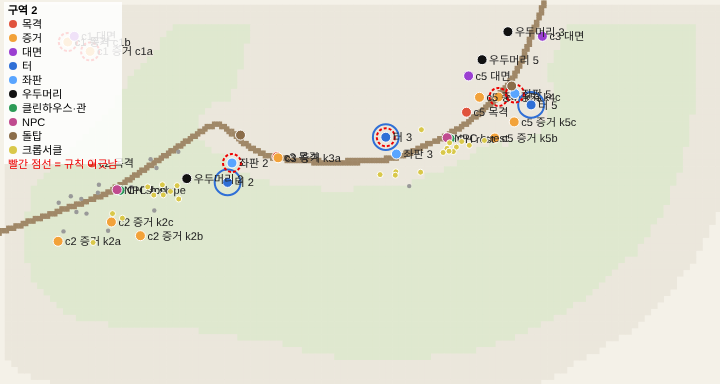
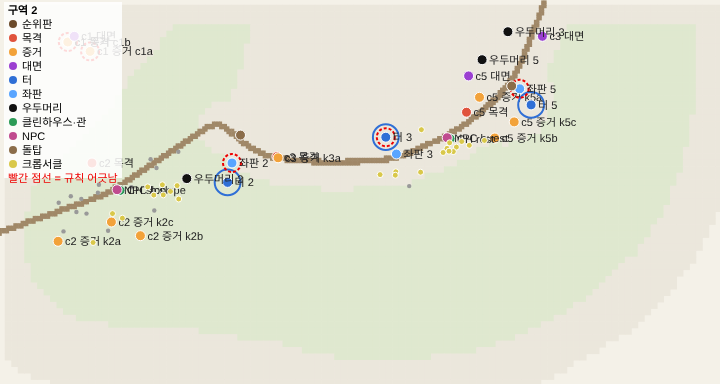
#308 정상 물건 흩어 놓기·금고(관리 초소) 굼부리 가는 길 끝으로
- 금고 초소: MYST.safe path·d·side·off (toCrater 190m 왼쪽 6.5m 길가, 문은 길을 봄), 초소 일지 k4c 도 곁으로 (z 1)
- 정상 하르방 → 능선 길목(올라오는 쪽 22m), 망원경 표지석에서 4.3m, 터 5 좌판 문 반대쪽 옆
- 금고 쪽지 n404 z 'hut' (굼부리 초소)
- tools/summitmap.js: 표지석 둘레 표·겹침·그림 (notes/shots/308)
- tools/summit.js: 낡은 검사 고침 (Lv 1 순간이동 → 권장 레벨 경고가 장면을 막음, 느린 GL 에서 6초는 짧음)

Claude-Session: https://claude.ai/code/session_01Hf36mauygstBS3Qxx7WYjF

Changed region(s): [[0.0, 0.0312, 0.1833, 0.4688], [0.6722, 0.1875, 0.7944, 0.2812]]

diff --git a/tools/summitmap.js b/tools/summitmap.js
@@ -1,0 +1,70 @@
+// 정상 물건 자리 (#308): node build.mjs && node tools/summitmap.js [출력=notes/shots/308] [이름표=after] [R=30]
+// - 표지석 둘레 R m 안의 상호작용 자리(이름·표지석 기준 out/tan m)를 적고, 서로 너무 가까운 쌍(폰에서 누르는 범위 겹침)을 FAIL 로 알림
+// - 금고(관리 초소)가 정상(표지석 SUMMIT_R m 안)에 없는지
+// - 그림: 정상을 위에서 본 것(top), 걸어 올라와서 앞(walk)·뒤(back), 관리 초소(hut)·능선 길목 하르방(hare) → <출력>/<이름표>-*.jpg
+const { chromium } = require('playwright');
+const fs = require('fs'), path = require('path');
+const OUT = process.argv[2] || 'notes/shots/308', TAG = process.argv[3] || 'after', R = +(process.argv[4] || 30);
+const SUMMIT_R = 16;
+fs.mkdirSync(OUT, { recursive: true });
+let fails = 0; const ok = (c, m) => { console.log((c ? 'ok   ' : 'FAIL ') + m); if (!c) fails++; };
+(async () => {
+  const b = await chromium.launch({ args: ['--use-gl=angle', '--use-angle=swiftshader', '--enable-unsafe-swiftshader'] });
+  const p = await b.newPage({ viewport: { width: 720, height: 540 } }); let errs = 0;
+  p.on('pageerror', (e) => { errs++; console.log('ERR', e.message.slice(0, 300)); });
+  const W = (ms) => p.waitForTimeout(ms), E = (f, a) => p.evaluate(f, a);
+  await p.goto('file://' + process.cwd() + '/dist/test.html?aa=1#namsongi'); await W(6000);
+  await p.click('#enter').catch(() => {}); await W(4000);
+  if (await E(() => !document.getElementById('look')?.hidden).catch(() => false)) { await p.click('#look-ok').catch(() => {}); await W(1000); }
+  await E(() => { const o = window.__oreum; o.tut?.skipAll?.(); o.setTod?.(14); o.setWeather?.('clear'); o.pace?.test?.hold?.(); });
+  await W(2500);
+  const inv = await E((R) => {
+    const o = window.__oreum, S = o.spots.photo.stone, out = o.spots.photo.out, tan = { x: -out.z, z: out.x };
+    const rel = (q) => ({ o: +((q.x - S.x) * out.x + (q.z - S.z) * out.z).toFixed(1), t: +((q.x - S.x) * tan.x + (q.z - S.z) * tan.z).toFixed(1), d: +Math.hypot(q.x - S.x, q.z - S.z).toFixed(1) });
+    const items = [];
+    for (const it of o.interactables || []) { const q = it.pos; if (!q || !isFinite(q.x)) continue; const r = rel(q); if (r.d < R) items.push({ k: 'act', name: (typeof it.label === 'function' ? it.label() : it.label) || it.ic || '?', r: it.r || 0, x: q.x, z: q.z, ...r }); }
+    for (const c of o.cairns || []) { const q = c.pos; if (q) { const r = rel(q); if (r.d < R) items.push({ k: 'cairn', name: c.name || c.id, r: 2.4, x: q.x, z: q.z, ...r }); } }
+    for (const h of o.spots.hareubangs || []) { const r = rel(h.pos); if (r.d < R) items.push({ k: 'hareubang', name: '하르방', r: 1.2, x: h.pos.x, z: h.pos.z, ...r }); }
+    const sp = o.summit?.spots?.(); if (sp?.scope) { const q = { x: sp.scope[0], z: sp.scope[2] }; items.push({ k: 'scope', name: '망원경', r: 0, x: q.x, z: q.z, ...rel(q) }); }
+    if (sp?.note) { const q = { x: sp.note[0], z: sp.note[2] }; items.push({ k: 'note', name: '쪽지', r: 0, x: q.x, z: q.z, ...rel(q) }); }
+    const safe = o.myst?.state?.().hut; if (safe) items.push({ k: 'safe', name: '금고(관리 초소)', r: 0, x: safe.x, z: safe.z, ...rel(safe) });
+    return { stone: [S.x, S.z], items: items.sort((a, b) => a.d - b.d) };
+  }, R);
+  console.log('표지석', inv.stone.map((v) => v.toFixed(1)).join(','));
+  console.log('종류       이름                       out    tan    거리  누르는 범위');
+  for (const it of inv.items) console.log(`${it.k.padEnd(10)} ${String(it.name).slice(0, 22).padEnd(24)} ${String(it.o).padStart(6)} ${String(it.t).padStart(6)} ${String(it.d).padStart(6)}  ${it.r}`);
+  /* 누르는 범위 겹침: 상호작용 둘이 서로 (작은 쪽 범위)보다 가깝거나 1.5 m 안이면 */
+  const acts = inv.items.filter((i) => i.r > 0);
+  const seen = new Set();
+  for (let i = 0; i < acts.length; i++) for (let j = i + 1; j < acts.length; j++) {
+    const a = acts[i], c = acts[j]; if (a.name === c.name) continue;
+    const key = [a.name, c.name].sort().join('|'); if (seen.has(key)) continue; seen.add(key);
+    const d = Math.hypot(a.x - c.x, a.z - c.z), need = Math.max(3, Math.min(a.r, c.r));
+    if (d < 0.1 && (a.k === 'cairn' || c.k === 'cairn')) continue; /* 돌탑 상호작용과 돌탑 자체 */
+    if (a.d < SUMMIT_R + 4 && c.d < SUMMIT_R + 4) ok(d >= need, `${a.name} ↔ ${c.name} ${d.toFixed(1)} m (≥ ${need})`);
+  }
+  const safe = inv.items.find((i) => i.k === 'safe');
+  const safeAll = await E(() => { const o = window.__oreum, s = o.myst?.state?.().hut, S = o.spots.photo.stone; return s ? Math.hypot(s.x - S.x, s.z - S.z) : null; });
+  ok(safeAll == null || safeAll > SUMMIT_R, `금고는 정상(표지석 ${SUMMIT_R} m) 밖 (${safeAll == null ? '없음' : safeAll.toFixed(1) + ' m'})`);
+  void safe;
+  /* 그림 */
+  await E(() => { let st = document.getElementById('__ms'); if (!st) { st = document.createElement('style'); st.id = '__ms'; document.head.append(st); } st.textContent = 'body > *:not(#view){visibility:hidden!important} #view{visibility:visible!important}'; });
+  const camAt = (x, y, z, tx, ty, tz) => E(([x, y, z, tx, ty, tz]) => { const o = window.__oreum; o.cam.mode = 'free'; o.camObj.position.set(x, y, z); o.camObj.lookAt(tx, ty, tz); }, [x, y, z, tx, ty, tz]);
+  const g = await E(() => { const o = window.__oreum, S = o.spots.photo.stone, out = o.spots.photo.out; return { x: S.x, z: S.z, y: o.groundAt(S.x, S.z), ox: out.x, oz: out.z }; });
+  await E(([x, z]) => { const o = window.__oreum; o.player.pos.set(x, o.groundAt(x, z), z); o.player.target = null; o.snap?.(); }, [g.x - g.ox * 3, g.z - g.oz * 3]);
+  await W(1500);
+  const sh = async (n) => { await p.screenshot({ path: path.join(OUT, `${TAG}-${n}.jpg`), type: 'jpeg', quality: 60, timeout: 150000 }); console.log('그림', path.join(OUT, `${TAG}-${n}.jpg`)); };
+  await camAt(g.x + g.ox * 2, g.y + 42, g.z + g.oz * 2 + 0.01, g.x - g.ox * 1, g.y, g.z - g.oz * 1); await W(2500); await sh('top');
+  /* 걸어 올라오는 쪽(바깥 out 쪽 아래)에서 표지석과 굼부리 쪽을 봄 */
+  await camAt(g.x + g.ox * 16, g.y + 4, g.z + g.oz * 16, g.x - g.ox * 6, g.y + 0.5, g.z - g.oz * 6); await W(2500); await sh('walk');
+  await camAt(g.x - g.ox * 14, g.y + 5, g.z - g.oz * 14, g.x + g.ox * 2, g.y + 0.5, g.z + g.oz * 2); await W(2500); await sh('back');
+  /* 옮긴 것: 관리 초소(금고)·능선 길목 하르방 */
+  const hut = await E(() => window.__oreum.myst?.state?.().hut);
+  if (hut) { const y = await E(([x, z]) => window.__oreum.groundAt(x, z), [hut.x, hut.z]); await camAt(hut.x + hut.fx * 9 + hut.fz * 4, y + 3.5, hut.z + hut.fz * 9 - hut.fx * 4, hut.x, y + 1, hut.z); await W(2500); await sh('hut'); }
+  const hb = await E(() => { const o = window.__oreum, S = o.spots.photo.stone; const h = o.life.hareubangs.map((q) => q.pos).sort((a, c) => Math.hypot(a.x - S.x, a.z - S.z) - Math.hypot(c.x - S.x, c.z - S.z))[0]; return h && { x: h.x, z: h.z, y: o.groundAt(h.x, h.z), sx: S.x, sz: S.z }; });
+  if (hb) { await camAt(hb.x + (hb.x - hb.sx) * 0.5, hb.y + 4, hb.z + (hb.z - hb.sz) * 0.5, hb.sx, hb.y, hb.sz); await W(2500); await sh('hare'); }
+  ok(!errs, '페이지 오류 없음');
+  await b.close();
+  console.log(fails ? `FAIL ${fails}` : '모두 통과');
+  process.exit(fails ? 1 : 0);
+})();

diff --git a/src/game/mystery.js b/src/game/mystery.js
@@ -2,7 +2,7 @@
 // - 4:04 가 나오는 곳(설명 없이): 오름 방송(관리 안내, punkworld pickLine), 쪽지(영수증·동굴 수거 일정표·금고 인수인계서), 가게 거리 멈춘 시계,
 //   가로등 번호판 '404', 마차 정류장 시간표 한 줄, 그리고 실제 시각 04:04 (그 1분 동안 가까운 더미에서 먼지가 일고, 단계 humStage 부터 먼 웅웅)
 //   본 곳을 save.myst.seen 에 모음. MYST.num.say 곳 이상 보면 혼잣말 '또 4시 4분이네.' 한 번(감독 #176 을 거침). 답을 알려 주는 UI·퀘스트 표시는 없음
-// - 금고: 굼부리 관리 초소(표지석 곁 작은 초소) 안 4자리 다이얼. 답 MYST.safe.code. 틀리면 '딸깍… 아니다.' 만(벌·힌트 없음)
+// - 금고: 굼부리 관리 초소(굼부리 가는 길 끝 길가의 작은 초소, #308 에서 정상에서 옮김) 안 4자리 다이얼. 답 MYST.safe.code. 틀리면 '딸깍… 아니다.' 만(벌·힌트 없음)
 //   열면 귤 MYST.safe.gyul(서버 earn.js 가 save.myst.safe 로 계정마다 한 번 인정, #188) + 전리품 하나(dropLoot 'treasure') + 쪽지 n404 + 칭호 '눈썰미'
 // - 내 화면에만 (멀티로 보내지 않음). 저장 save.myst = { seen: [곳], said, safe, rad: [들은 관리 안내 번호(punkworld)], tr: {흔적, traces.js}, crop }
 // 파일 순서는 summit 뒤 (src/modules.js: 표지석 자리·쪽지·칭호가 다 있음). dev: __oreum.myst
@@ -17,7 +17,7 @@ import { revealStage } from '../ufoveil.js';
 import { state, late } from './state.js';
 import { $, save, persist, MAP_ID } from './save.js';
 import { scene, spots } from './scene.js';
-import { P as PH, summitOut, summitTan, player, trash, col, street } from './place.js';
+import { P as PH, player, trash, col, street } from './place.js';
 import { ach, addCoins, PANELS, panelOpen, openDex } from './hud.js';
 import { interactables } from './stores.js';
 import { dropLoot } from './loot.js';
@@ -100,9 +100,12 @@ if (NS && CART?.stops?.[N.stop]) {
 }
 
 /* ---------- 금고: 굼부리 관리 초소 ---------- */
+/* #308: 정상에서 빼서 굼부리 가는 길(toCrater) 끝, 굼부리 둘레 앞 길가로. 문은 길을 봄 */
 const SAFE_ON = NS && !!PH?.stone;
-const hutPos = SAFE_ON ? PH.stone.clone().addScaledVector(summitOut, SF.out).addScaledVector(summitTan, SF.tan) : new THREE.Vector3(1e9, 0, 1e9);
+const hutQ = SAFE_ON ? nsAlong(SF.path, SF.d, SF.side, SF.off) : null, hutLook = SAFE_ON ? nsAlong(SF.path, SF.d, 0, 0) : null;
+const hutPos = SAFE_ON ? new THREE.Vector3(hutQ.x, 0, hutQ.z) : new THREE.Vector3(1e9, 0, 1e9);
 hutPos.y = height(hutPos.x, hutPos.z);
+const hutFace = SAFE_ON ? new THREE.Vector3(hutLook.x - hutPos.x, 0, hutLook.z - hutPos.z).normalize() : new THREE.Vector3(0, 0, 1);
 let door = null;
 if (SAFE_ON) {
   const g = new THREE.Group(), wall = tm('#b9b2a0'), roof = tm('#56605a'), dark = tm('#2d302e'), steel = tm('#6d7370');
@@ -115,11 +118,11 @@ if (SAFE_ON) {
   const dp = new THREE.Mesh(new THREE.BoxGeometry(0.66, 0.7, 0.05), tm('#7d8380')); dp.position.x = 0.35; door.add(dp);
   const dial = new THREE.Mesh(new THREE.CylinderGeometry(0.1, 0.1, 0.05, 12), dark); dial.rotation.x = Math.PI / 2; dial.position.set(0.35, 0.05, 0.04); door.add(dial);
   const sign = plate([T.hut], { w: 1.4, h: 0.26, bg: '#eae3cc', px: 40 }); sign.position.set(0, 1.85, 0.92); g.add(sign);
-  g.position.copy(hutPos); g.rotation.y = Math.atan2(PH.stone.x - hutPos.x, PH.stone.z - hutPos.z); G.add(g);
+  g.position.copy(hutPos); g.rotation.y = Math.atan2(hutFace.x, hutFace.z); G.add(g);
   col?.add(hutPos.x, hutPos.z, 1.3);
   if (mystSave().safe) door.rotation.y = -1.9;
 }
-const safeAt = SAFE_ON ? hutPos.clone().add(new THREE.Vector3(PH.stone.x - hutPos.x, 0, PH.stone.z - hutPos.z).setLength(1.7)) : hutPos;
+const safeAt = SAFE_ON ? hutPos.clone().addScaledVector(hutFace, 1.7) : hutPos;
 
 // 다이얼 창
 const CSS = `
@@ -238,7 +241,7 @@ late.tickMyst = (dt) => {
 };
 
 late.mystApi = {
-  state: () => { const m = mystSave(); return { seen: [...m.seen], said: m.said, safe: m.safe, now404: isNow(), hut: SAFE_ON && { x: +hutPos.x.toFixed(1), z: +hutPos.z.toFixed(1) }, on: !!state.sessionOn, near: spotsSeen.map((x) => +Math.hypot(x.x - player.pos.x, x.z - player.pos.z).toFixed(1)), spots: spotsSeen.map((s) => s.id), notes: NOTE404 }; },
+  state: () => { const m = mystSave(); return { seen: [...m.seen], said: m.said, safe: m.safe, now404: isNow(), hut: SAFE_ON && { x: +hutPos.x.toFixed(1), z: +hutPos.z.toFixed(1), fx: +hutFace.x.toFixed(2), fz: +hutFace.z.toFixed(2) }, on: !!state.sessionOn, near: spotsSeen.map((x) => +Math.hypot(x.x - player.pos.x, x.z - player.pos.z).toFixed(1)), spots: spotsSeen.map((s) => s.id), notes: NOTE404 }; },
   seen: (id) => { const r = seen(id); trySay(); return r; },
   go: (id = 'safe') => { const s = id === 'safe' ? safeAt : spotsSeen.find((x) => x.id === id); if (!s) return null; const x = s.x + 1.2, z = s.z + 1.2; player.pos.set(x, height(x, z), z); player.visY = player.pos.y; return { x, z }; },
   open: openSafe, close: closeSafe, code: (c) => tryCode(String(c)), shown: () => !win.hidden,

diff --git a/src/balance.js b/src/balance.js
@@ -1410,7 +1410,7 @@ export const CLUE = {
   turn: [1.5, 6.5], flash: { at: 6.8, dur: 0.6, size: 26 }, up: 30, fov: 32,
   note: { out: -1.5, tan: 0.5, r: 2.6 },
   rim: { in: 4, r: 9 },
-  scope: { out: 0.7, tan: -2.8, r: 2.4, len: 9, fov: 14, sweep: 0.55, far: 1400, light: { stage: 0, night: -4 } },
+  scope: { out: 0.8, tan: -4.2, r: 2.4, len: 9, fov: 14, sweep: 0.55, far: 1400, light: { stage: 0, night: -4 } },
 };
 
 // 미스터리 장치 (#212, game/mystery.js·game/traces.js). 단계는 UFO.reveal 의 드러남 단계(#207). 값은 임의
@@ -1418,8 +1418,9 @@ export const MYST = {
   // 1. 되풀이되는 숫자 4:04. 본 곳(방송·쪽지·시계·가로등·시간표·그 시각)이 say 곳 이상이면 혼잣말 한 번. near: 시계·번호판·시간표에 이 m 안이면 본 것
   //   시계: 가게 거리 골목 좌표 clock [s, 쪽] · 번호판: 가로등 lamp 번째 · 시간표: 마차 정류장 stop 번째. 그 시각 1분 동안 dustR m 안 더미에서 dustEvery 초마다 먼지, 단계 humStage 부터 먼 웅웅
   num: { h: 4, m: 4, say: 4, near: 6, dustR: 70, dustEvery: [4, 7], humStage: 1, lamp: 0, clock: [12, -1], stop: 0 },
-  // 금고: 굼부리 관리 초소(표지석 기준 out·tan m). 답 code, 열면 귤 gyul(서버 earn.js 가 계정마다 한 번) + 전리품(lootZ 구역 'treasure') + 쪽지 note + 칭호
-  safe: { out: -7.5, tan: 6.5, r: 2.6, code: '0404', gyul: 300, lootZ: 4, note: 'n404' },
+  // 금고: 굼부리 관리 초소. 자리는 남송이 길 path 의 d m 지점에서 옆(side 1/-1) off m (#308: 정상에서 빼서 굼부리 가는 길 끝·둘레 앞 길가로, 임의값)
+  //   답 code, 열면 귤 gyul(서버 earn.js 가 계정마다 한 번) + 전리품(lootZ 구역 'treasure') + 쪽지 note + 칭호
+  safe: { path: 'toCrater', d: 190, side: -1, off: 6.5, r: 2.6, code: '0404', gyul: 300, lootZ: 4, note: 'n404' },
   // 3. 발자국: 밤(18~6시)에 생겨 아침(6~12시)에 지워짐. 구역마다 한 줄(더미 → 더미 → 다음 쪽으로 가다 cut 비율에서 끊김), 걸음 step m(저사양 stepLow)
   foot: { from: 18, fadeFrom: 6, fadeTo: 12, step: 1.1, stepLow: 1.8, size: 0.5, cut: [0.55, 0.75], max: 3, maxLow: 2, seen: 3 },
   // 크롭서클: 단계 stage 부터, 구역 zones 의 평평한 풀밭. days 일마다 자리가 바뀜. 지름 r·2 m. 땅에선 흐리게(op[0]), 카메라가 high m 넘게 높으면 또렷이(op[1])
@@ -2403,7 +2404,7 @@ export const TOKEN = {
     { id: 'vest:t-gong', slot: 'vest', z: 5, price: 30, name: '망고 띠', tok: { dmg: 0.08 }, look: { kind: 'vest', main: '#45464b', acc: '#f08a24', pockets: 1 } },
   ],
   suit: { hp: 0.5 },
-  stall: { side: 4.2, out: 2.2, near: 40, npc: '터지기', r: 2.6, mangoY: 1.06, mangoZ: 0.34 }, /* mangoY·Z: 판 위 망고 한 알 자리 (#305) */
+  stall: { side: 4.2, sideZ: { 5: -4.2 }, out: 2.2, near: 40, npc: '터지기', r: 2.6, mangoY: 1.06, mangoZ: 0.34 }, /* mangoY·Z: 판 위 망고 한 알 자리 (#305). sideZ: 구역별 옆 m (#308 터 5 좌판은 문 반대쪽 옆, 표지석에서 멀리) */
   pop: { max: 5, t: 1.1, scale: 1.6 }, /* 받을 때 튀는 망고 (#305): 몇 알까지·한 알 시간(초)·크기 배수 */
   quest: { n: 10, gyul: 20 },
 };

diff --git a/src/game/punkworld.js b/src/game/punkworld.js
@@ -188,7 +188,7 @@ const fightNow = () => !!player.down || !!late.pace?.threat?.() || (state.tensio
 function syncChip() { chip.hidden = !P.unread.length; chip.querySelector('i').textContent = P.unread.length > 1 ? String(P.unread.length) : ''; }
 // 쪽지 창 (#199): 종이 모양·이전/다음 넘기기·그림은 game/noteview.js
 const view = createNoteView({
-  P, NOTES, zoneName: (z) => (z === 'cave' ? '용암 동굴' : z === 'top' ? '정상' : z === 'case' ? '사건 파일' : zoneName(z)), persist, sound: () => late.sound, /* 동굴 쪽지 (#195) */
+  P, NOTES, zoneName: (z) => (z === 'cave' ? '용암 동굴' : z === 'top' ? '정상' : z === 'hut' ? '굼부리 관리 초소' : z === 'case' ? '사건 파일' : zoneName(z)), persist, sound: () => late.sound, /* 동굴 쪽지 (#195) */
   onRead: () => syncChip(),
   // 감독은 창이 닫힐 때까지 기다림 (도감에서 연 것은 도감 위에 뜸)
   onOpen: (dex) => { if (!dex) { closePanels(); holdWin('story', 'note', 'punk-note'); } late.sound?.snip?.(); },
@@ -228,7 +228,7 @@ syncChip();
     for (const n of NOTES) {
       const got = !!P.notes[n.id], c = document.createElement('div'); c.className = 'dex-cell note' + (got ? '' : ' locked');
       c.innerHTML = `<span class="dex-ic">${iconSvg(BADGE_ICONS['b-notes'])}</span><b></b><small></small>`;
-      c.querySelector('b').textContent = got ? n.t : '???'; c.querySelector('small').textContent = got ? (P.unread.includes(n.id) ? '안 읽음' : n.from) : n.z === 'cave' ? '동굴' : n.z === 'top' ? '정상' : n.z === 'case' ? '사건' : `구역 ${n.z}`; /* 동굴 쪽지 (#195), 정상 첫 쪽지 (#208) */
+      c.querySelector('b').textContent = got ? n.t : '???'; c.querySelector('small').textContent = got ? (P.unread.includes(n.id) ? '안 읽음' : n.from) : n.z === 'cave' ? '동굴' : n.z === 'top' ? '정상' : n.z === 'hut' ? '굼부리 초소' : n.z === 'case' ? '사건' : `구역 ${n.z}`; /* 동굴 쪽지 (#195), 정상 첫 쪽지 (#208), 금고 쪽지 (#308) */
       if (got) c.addEventListener('click', () => openNote(n.id, { dex: true }));
       g.append(c);
     }

diff --git a/tools/summit.js b/tools/summit.js
@@ -17,6 +17,8 @@ let fails = 0; const ok = (c, msg) => { console.log(c ? 'ok  ' : 'FAIL', msg); i
     await p.click('#enter').catch(() => {}); await W(4000);
     if (await ev(() => !document.getElementById('look')?.hidden)) { await p.click('#look-ok').catch(() => {}); await W(1200); }
     await ev(() => { const o = window.__oreum; o.tut.skipAll(); o.setTod(14); });
+    /* 정상(구역 5)은 권장 Lv 14: 레벨 1로 순간이동하면 '권장 레벨' 경고(감독 msg, 10초)가 이야기를 막음 → 정상에 오를 만한 레벨로 (#308 에서 낡은 검사 고침) */
+    await ev(() => { const o = window.__oreum; for (let x = o.level.state().xp, g = 0; o.level.state().lv < 14 && g < 300; g++) { x += Math.max(50, Math.ceil(o.level.state().need / 4)); o.level.setXp(x); } });
     await W(1500);
     const S = () => ev(() => window.__oreum.summit.state());
     const go = (v) => ev((v) => { const o = window.__oreum; o.player.pos.set(v[0], o.groundAt(v[0], v[2]), v[2]); o.player.target = null; o.snap(); }, v);
@@ -30,7 +32,7 @@ let fails = 0; const ok = (c, msg) => { console.log(c ? 'ok  ' : 'FAIL', msg); i
     await W(800);
     let s = await S();
     if (!old) {
-      const fov0 = s.fov; ok(await until(() => !!window.__oreum.summit.state().run, 6000), '표지석에 닿으면 장면 시작');
+      const fov0 = s.fov; ok(await until(() => !!window.__oreum.summit.state().run, 90000), '표지석에 닿으면 장면 시작'); /* 레벨을 올리면 가게 열림 안내가 먼저 지나감(감독 시계 ~10초, 소프트웨어 GL 에선 실제 시간이 더 걸림) */
       await W(2500); s = await S(); ok(s.cam === 'cine' && s.run?.kind === 'scene', `장면 중 카메라 cine (u ${s.run?.u})`); await shot('turn');
       await ev(() => window.__oreum.summit.jump(6.9)); await W(150); s = await S(); ok(s.flash, '굼부리 안 빛 깜빡임'); await shot('flash');
       ok(await ev(() => !document.querySelector('#clue-cine .cc-sk').hidden), '건너뛰기 단추');

diff --git a/src/cases/c4.js b/src/cases/c4.js
@@ -1,6 +1,6 @@
 // 사건 4 '굼부리 괴물' (#235, notes/case-files.md 3절). 굼부리(북쪽 원형 분화구), 대면은 굼부리 서바이벌 터(#231)를 버틴 뒤 둘레에서 안개 지켜보기
 // 데이터만 (그림·DOM·three 없음). 틀·필드 설명은 src/cases/index.js 맨 위, 게임 연결은 src/game/cases.js, 모양·장면은 src/game/caseprops.js (neck·rings·post·log·hose)
-// 자리(at)는 남송이오름 좌표 [x, z] (임의값). 굼부리 바닥 가운데 약 [48, -420], 서바이벌 터 [84, -440] (#253). 초소 일지는 굼부리 관리 초소(금고 0404, game/mystery.js) 곁이라 구역 5 (z: 5)
+// 자리(at)는 남송이오름 좌표 [x, z] (임의값). 굼부리 바닥 가운데 약 [48, -420], 서바이벌 터 [84, -440] (#253). 초소 일지는 굼부리 관리 초소(금고 0404, game/mystery.js) 곁. #308 에서 초소를 정상에서 굼부리 가는 길 끝 길가로 옮겨 구역 1 (z: 1)
 export default {
   id: 'c4', n: 4, zone: 4, lv: 13, name: '굼부리 괴물', giver: 'b:crater',
   rumor: '안개 낀 날 굼부리에서 뭔가 솟는대요', /* 앞 구역을 끝냈을 때 구역 완료 창의 실마리 한 줄 (#256) */
@@ -9,7 +9,7 @@ export default {
   ev: [
     { id: 'k4a', kind: 'photo', at: [8, -446], prop: 'post', label: '사진 찍기', note: 'k4a' },
     { id: 'k4b', kind: 'trace', at: [52, -379], prop: 'rings', label: '살펴보기', note: 'k4b' },
-    { id: 'k4c', kind: 'note', at: [23.6, -21.8], z: 5, prop: 'log', label: '일지 읽기', note: 'k4c' },
+    { id: 'k4c', kind: 'note', at: [-40.7, -433.5], z: 1, prop: 'log', label: '일지 읽기', note: 'k4c' },
   ],
   // 대면: 굼부리 서바이벌 터 한 판을 버틴 뒤, 둘레 말뚝에서 장면 'hose' (안개가 걷히며 목이 하늘까지 이어진 호스로 보임, 주둥이에서 쓰레기가 쏟아짐)
   face: { kind: 'arena', scene: 'hose', tint: 'mist', at: [14, -398], prop: 'post', label: '안개 지켜보기', len: 12,

diff --git a/src/punktext.js b/src/punktext.js
@@ -243,7 +243,7 @@ export const NOTES = [
   { id: 'nc2', paper: 'rubbing', z: 'cave', t: '벽 낙서', from: '동굴 벽', b: '(읽을 수 없는 글자와 동그라미 셋)\n그 아래 귤즙으로:\n"여기까지 와 봤음. 춥다. 무늬가 따라옴."\n— 오름지기 (젊을 때)' },
   { id: 'nc3', paper: 'alien', z: 'cave', t: '노선도 한 장', from: '동굴의 주인 곁', b: '내려놓는 곳 노선도\n● 남송이오름 (지금 여기)\n○ 다른 오름 ○ 다른 오름 ○ …\n표시가 다 똑같다.' },
   // 금고 쪽지 (#212, game/mystery.js): 굼부리 관리 초소 금고(0404)를 열면. 4장 반전은 말하지 않음
-  { id: 'n404', paper: 'form', z: 'top', t: '수거 담당 인수인계서', from: '관리 초소 금고', b: '1. 수거는 매일 04:04. 늦으면 안 됨.\n2. 치워도 다시 쌓임. 위에서 내려오는 것은 세지 말 것.\n3. 누가 물어보면 \'관리 중\' 이라고만.\n인계자: (지워짐) / 인수자: ' },
+  { id: 'n404', paper: 'form', z: 'hut', t: '수거 담당 인수인계서', from: '관리 초소 금고', b: '1. 수거는 매일 04:04. 늦으면 안 됨.\n2. 치워도 다시 쌓임. 위에서 내려오는 것은 세지 말 것.\n3. 누가 물어보면 \'관리 중\' 이라고만.\n인계자: (지워짐) / 인수자: ' },
 ];
 NOTES.push(...CASE_NOTES); // 사건 파일 쪽지 (#232, src/cases/c*.js notes): z 'case' 라 구역 쪽지로 떨어지지 않음. 사건의 증거·대면에서만
 

diff --git a/src/maps.js b/src/maps.js
@@ -191,7 +191,7 @@ function namsongiSpots() {
       { pos: T1.hare, heading: T1.hare.dir + Math.PI - 0.5 },
       { pos: at('approach', G0 + 6, -1, 4.4), heading: T1.hare.dir + Math.PI + 0.5 },
       { pos: at('approach', LA - 14, -1, 4.4), heading: at('approach', LA - 14).dir + Math.PI + 0.4 },
-      { pos: V(stone.x - smOut.z * 6, stone.z + smOut.x * 6), heading: Math.atan2(-smOut.x, -smOut.z) },
+      { pos: at('rim', rimD + 22, 1, 4.4), heading: at('rim', rimD + 22).dir + 0.4 }, // #308 정상(표지석 곁)에서 능선 길목으로: 올라오는 쪽 22m 앞 길가
     ],
     sign: { pos: at('approach', G0 + 12, 1, 5), rot: at('approach', G0 + 12).dir + Math.PI - 0.35, // #114 하르방(왼쪽)에 가리지 않게 맞은편으로
        html: NS_SIGN_TEXT, board: { title: '남송이오름 탐방로', sub: '서귀포시 안덕면 서광리', l1: '능선 · 정상(339m)', go: '▲ 정상까지 솔숲길' } },

diff --git a/src/game/token.js b/src/game/token.js
@@ -204,7 +204,7 @@ function placeStalls() {
   stalls.length = 0;
   for (const a of late.arenaApi?.list?.() || []) {
     const f = [Math.sin(a.face), Math.cos(a.face)], tg = [Math.cos(a.face), -Math.sin(a.face)], R = A.r + T.stall.out;
-    const x = a.x + f[0] * R + tg[0] * T.stall.side, z = a.z + f[1] * R + tg[1] * T.stall.side, y = height(x, z);
+    const sd = T.stall.sideZ?.[a.zone] ?? T.stall.side, x = a.x + f[0] * R + tg[0] * sd, z = a.z + f[1] * R + tg[1] * sd, y = height(x, z);
     /* #305 Tripo 망고 좌판 (tripoprop.js: 가까이 가면 받음, 그 전엔 예전 코드 모양) + 판 위 망고 한 알 */
     const ph = new THREE.Mesh(geo, mat); ph.castShadow = false; ph.receiveShadow = !LOW;
     const P = tripoProp('stall', { scale: CASE_MODELS.prop.stall, ph, shadow: false }), mesh = P.root;

diff --git a/notes/prototype-v1.md b/notes/prototype-v1.md
@@ -36,7 +36,7 @@ Cloudflare: Workers 배포용 API 토큰 oreumoreum-deploy(90일, 2027-02-05 만
 | menu.js | 처음부터 다시, 개발자 버튼, 배경 음악, 동작(이모트) 버튼 |
 | wish.js | 돌탑 소원 글·함께 기도 (#127): 돌탑 창(돌 올리기 + 소원 한 줄, 남의 소원 함께 기도·신고), 돌탑 가까이에서 소원 말풍선, 들어올 때 '○명이 함께 빌어 줬어요', 어드민 '신고된 소원' 패널 (`wishApi` → `/wish`·`/wish/pray`·`/wish/report`·`/wish/news`·`/admin/wishes`·`/admin/wish`). moves.js `openWishes` 는 여기로 넘김 |
 | summit.js | 정상 첫 실마리(#208): 표지석에 처음 닿으면 장면(엔딩의 cam 'cine' 자리를 빌림, `late.cineCam` 을 감쌈·건너뛰기)·표지석 뒤 쪽지(NOTES 'n0', z 'top')·읽으면 퀘스트 x-rim(주는 사람 없는 auto, game/quest.js onReady 가 바로 끝냄)·전망 자리 셈 'rimLook'·감독 한 줄(`late.questAutoDone`)·망원경. 저장 save.clue. 수치 `CLUE`, 글 `CLUE_TEXT`. dev `__oreum.summit` |
-| mystery.js | 미스터리 장치 1 (#212): 되풀이되는 숫자 4:04 — 가게 거리 멈춘 시계·가로등 번호판·마차 시간표(코드 모양), 본 곳 `save.myst.seen`(방송 글·쪽지·실제 시각 04:04 포함), 넷 이상이면 혼잣말 'num404'. 굼부리 관리 초소 금고(4자리 다이얼 창 `#myst-safe`, 답 `MYST.safe.code`) → 귤(서버 earn.js `safe`)·dropLoot·쪽지 n404·칭호. 04:04 먼지 `late.mystPuff`. dev `__oreum.myst` |
+| mystery.js | 미스터리 장치 1 (#212): 되풀이되는 숫자 4:04 — 가게 거리 멈춘 시계·가로등 번호판·마차 시간표(코드 모양), 본 곳 `save.myst.seen`(방송 글·쪽지·실제 시각 04:04 포함), 넷 이상이면 혼잣말 'num404'. 굼부리 관리 초소 금고(자리 `MYST.safe` path·d·side·off, #308 에서 정상에서 굼부리 가는 길 끝으로. 4자리 다이얼 창 `#myst-safe`, 답 `MYST.safe.code`) → 귤(서버 earn.js `safe`)·dropLoot·쪽지 n404·칭호. 04:04 먼지 `late.mystPuff`. dev `__oreum.myst` |
 | traces.js | 미스터리 장치 2 (#212): 세 발가락 발자국(InstancedMesh, 밤 번호 씨앗), 크롭서클(drape, 무늬 그림은 `src/croptex.js` — 사건 1 caseprops 와 같이 씀, 높이·망원경에 따라 또렷이), 뒤돌아보면 실루엣·오래 보면 먼지, 도감 '흔적' 칸(`late.dexExtra` 감쌈). 본 것 `save.myst.tr`. dev `__oreum.traces` |
 | cases.js | 사건 파일 (#232, 기획 notes/case-files.md): 사건 데이터는 `src/cases/c*.js`(데이터만, `src/cases/index.js` 가 모아 QUESTS.side·NOTES(z 'case')·CLOTHES·BADGES 뒤에 붙임), 모양은 `game/caseprops.js`. 목격(레벨·자리 → 혼잣말·사건 열림), 증거(자리 모양·상호작용 → 쪽지), 대면 hide(수풀 → 'cine' 장면: 새벽빛·가운데로 떨어지는 모양, `late.cineCam` 감쌈)·arena·boss(+ follow 는 casechase.js), 증거 view(위에서 찍기 짧은 장면, #246), 셈 `late.caseVal`('case:<id>:ev'·':face')·`late.caseOpen`·`late.casePos`(game/quest.js 가 부름), 종결(`late.questGave` → 칭호). 창 `#case-file` 수사 보드(#246: 코르크판 사진 자리 다섯·핀·빨간 실, 사진 → 증거 칸, 메뉴·쪽지 창 [사건]). 저장 save.cases(v 판이 다르면 처음으로). 수치 `CASE`. dev `__oreum.cases` |
 | casefinale.js | 사건 파일 끝 '버리는 자' (#237): 사건을 다 종결하면 조용할 때 수사 보드가 열리고 빨간 실이 핀을 차례로 이은 뒤 핀마다 위(하늘 띠)로 한 줄 → 혼잣말·칭호 '수석 조사관'(b-case-all) → `late.story.endReady()` 로 엔딩. 엔딩('end')은 `late.caseFin.ready()`(연출을 봄·이미 엔딩을 봄) 뒤에만(story.js). cases.js tickCases 가 부름(루프 줄 없음). 저장 save.caseFin = { t }. 수치 `CASE.fin`. dev `__oreum.caseFin` |

diff --git a/notes/shots/256/spots.md b/notes/shots/256/spots.md
@@ -8,6 +8,7 @@
 | 1 | 사건 c1 증거 c1a | -482.4 | -78.3 | 155.6 | 사건 c1 증거 셋이 한 줄로 몰림 (사이 각 21도) |
 | 1 | 사건 c1 증거 c1b | -510 | -90 | 180.6 |  |
 | 1 | 사건 c1 증거 c1c | -623 | 119 | 32.2 |  |
+| 1 | 사건 c4 증거 k4c | -40.7 | -433.5 | 3 | 증거가 길에서 3m (30~120, 25 까지 봐줌) — 관리 초소(금고 0404) 곁이라 길가 |
 | 1 | 사건 c1 대면 | -502 | -97 | 181.9 |  |
 | 1 | 사건 c1 목격 | -510 | -90 | 180.6 | 목격이 길에서 180.6m (보이는 거리 7m 빼고 20 안) — 길 없는 들판 사건: 추적 줄(다음 할 일 case)이 목격 자리로 이끎 |
 | 1 | 좌판 1 | 4.8 | -553.1 | 23.1 |  |
@@ -30,17 +31,16 @@
 | 3 | 좌판 3 | -102.9 | 48.8 | 0.9 |  |
 | 4 | 터 4 | 84 | -440 | 38.2 |  |
 | 4 | 우두머리 4 | -182 | -286.7 | 64.6 |  |
-| 4 | 사건 c4 증거 k4a | 8 | -446 | 27.5 | 사건 c4 증거 셋이 한 줄로 몰림 (사이 각 21도) |
+| 4 | 사건 c4 증거 k4a | 8 | -446 | 27.5 |  |
 | 4 | 사건 c4 증거 k4b | 52 | -379 | 54.1 |  |
 | 4 | 사건 c4 대면 | 14 | -398 | 45.6 |  |
 | 4 | 사건 c4 목격 | 48 | -420 | 72.6 |  |
 | 4 | 좌판 4 | 98.1 | -460.1 | 14 |  |
 | 5 | 터 5 | 64 | -12 | 36.1 |  |
 | 5 | 우두머리 5 | 3.3 | -68.1 | 40.6 |  |
-| 5 | 사건 c4 증거 k4c | 23.6 | -21.8 | 1.3 | 증거가 길에서 1.3m (30~120, 25 까지 봐줌) — 관리 초소(금고 0404) 곁이라 길가 · 사건 c4 증거 k4c ↔ 사건 c5 증거 k5a 23.6m (25 안) · 사건 c4 증거 k4c ↔ 좌판 5 20.8m (25 안) · 사건 c4 증거 k4c ↔ 돌탑 2 21.3m (25 안) |
 | 5 | 사건 c5 증거 k5a | 0 | -21.5 | 11.7 |  |
 | 5 | 사건 c5 증거 k5b | 19 | 29 | 33.3 |  |
 | 5 | 사건 c5 증거 k5c | 43 | 9 | 34 |  |
 | 5 | 사건 c5 대면 | -13.5 | -48 | 40 |  |
 | 5 | 사건 c5 목격 | -16 | -3 | 8.1 |  |
-| 5 | 좌판 5 | 43.9 | -26.1 | 11.9 | 좌판 5 ↔ 돌탑 2 10.1m (25 안) |
+| 5 | 좌판 5 | 49.8 | -32 | 12.4 | 좌판 5 ↔ 돌탑 2 10.4m (25 안) |
